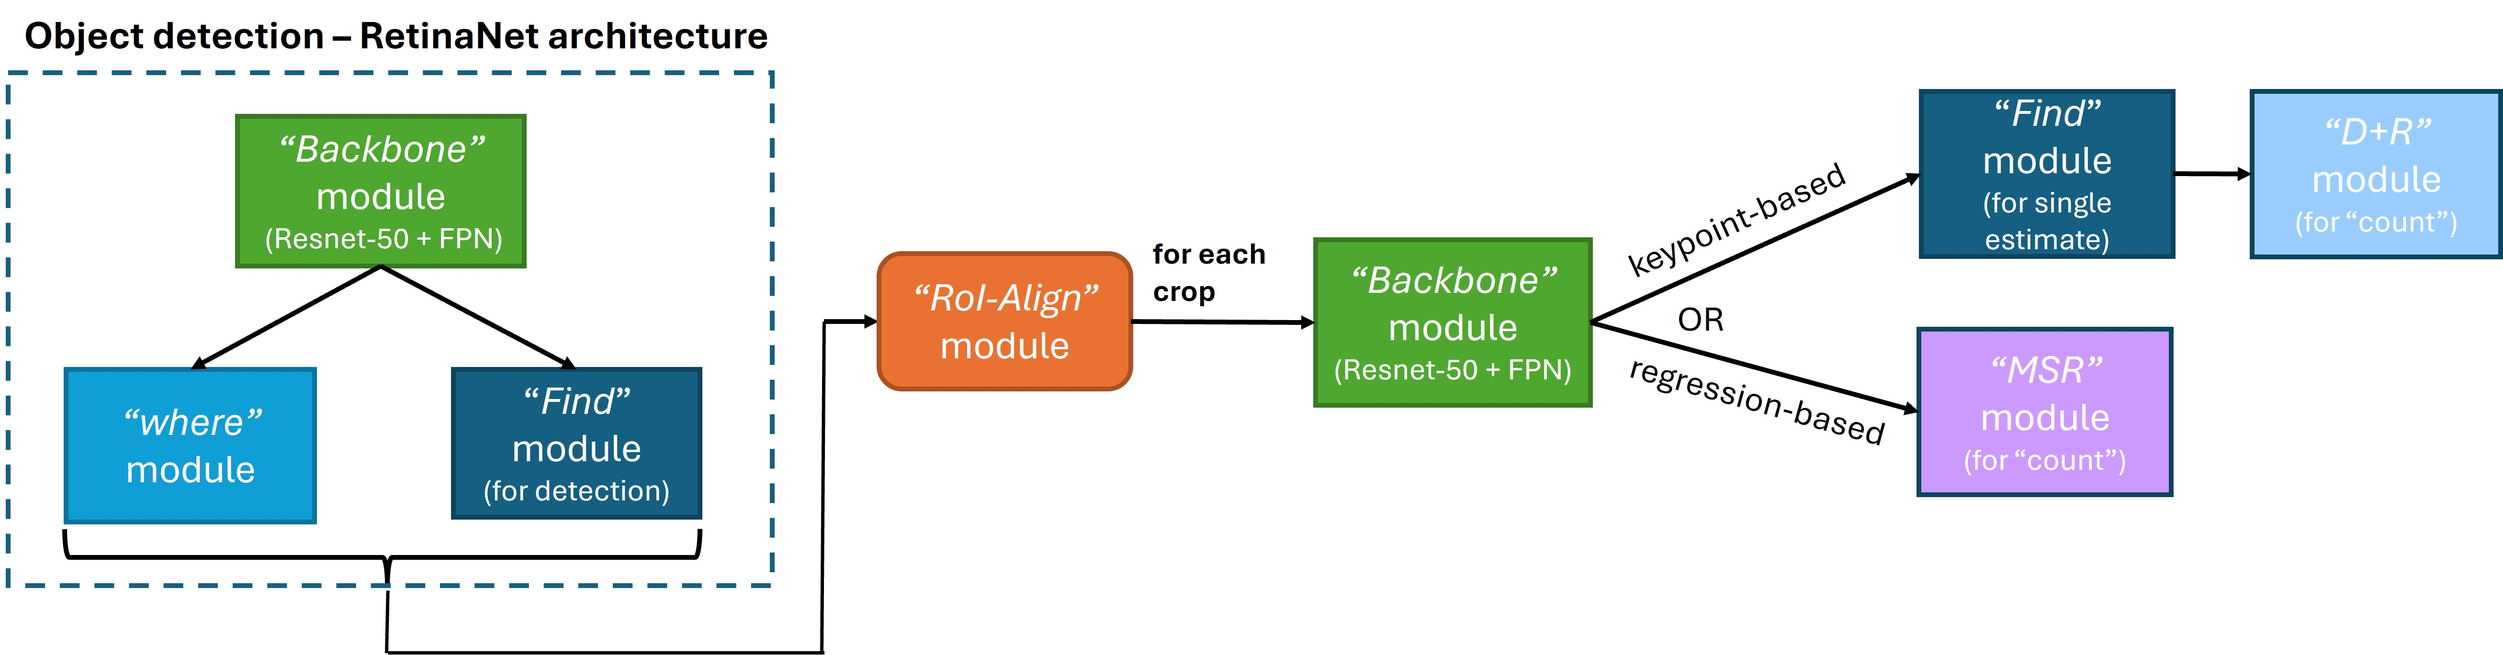
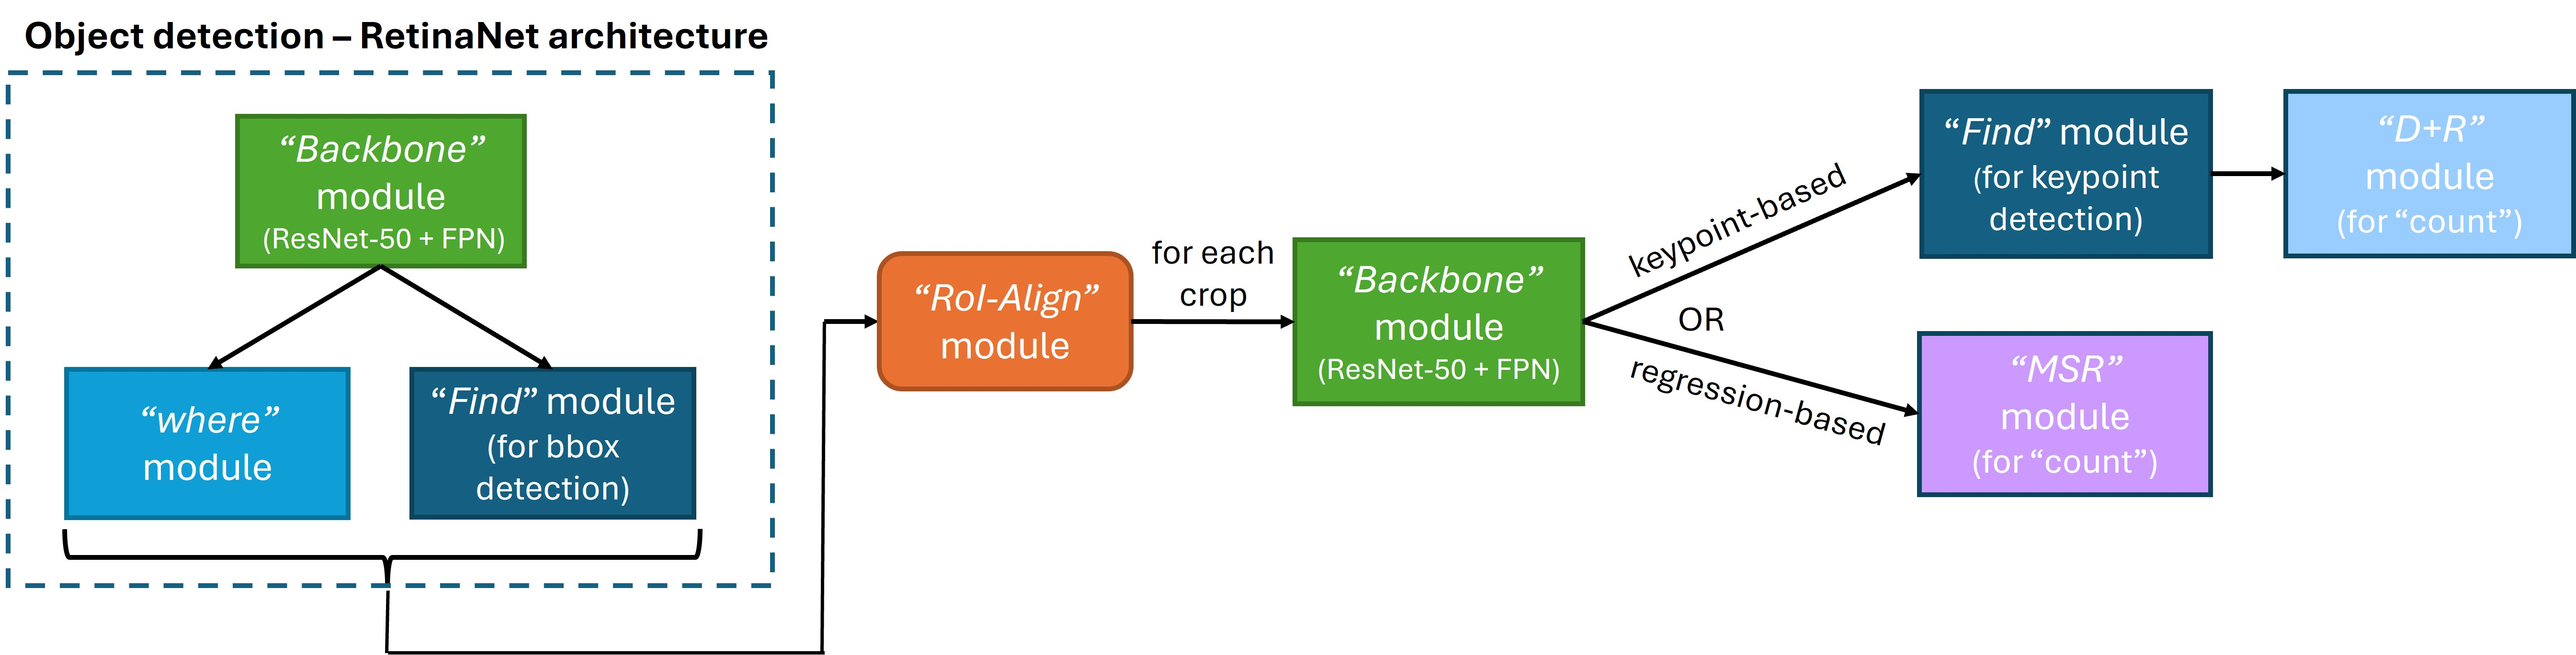
27/8 Add models figures

diff --git a/README.md b/README.md
@@ -19,15 +19,13 @@ The underlying methods have been published in
 
 ## Highlights
 
-- End-to-end training, inference, and evaluation in PyTorch.
-- Direct per-image estimation, or object detection followed by per-object
-  counting or attribute estimation.
-- Regression- and keypoint-based architectures.
-- Demonstrated on two public datasets: berry counting for countable grape
-  clusters, and multi-task estimation of root length, diameter, and color.
-- Automated, checksum-verified dataset and checkpoint downloads.
+- Modular deep-learning architecture supporting direct per-image estimation
+  and detection-based per-object counting and attribute estimation.
+- End-to-end training, inference, evaluation, and visualization in PyTorch.
+- Interchangeable keypoint- and regression-based estimation approaches.
+- Demonstrated on two public datasets for grape berry counting and multi-task
+  estimation of root length, diameter, and color.
 - Validated command-line tools and a local Streamlit interface.
-- Modular checkpoint splitting, composition, and inspection utilities.
 - CPU test coverage and continuous integration through GitHub Actions.
 
 ## Datasets
@@ -74,6 +72,38 @@ estimator selected with `--estimate-type`.*
 [grapevine-root dataset](https://doi.org/10.5281/zenodo.8084106): (a) raw input;
 (b) ground-truth keypoint heatmap (TRL: 124.09 mm); and
 (c) predicted keypoint heatmap (TRL: 110.03 mm).*
+
+#### Root model architectures
+
+##### Direct per-image TRL estimation
+
+<p align="center">
+  <img src="docs/images/per-image-TRL-models.jpg" width="75%" alt="Keypoint-based D+R and regression-based MSR architectures for direct per-image total root length estimation">
+</p>
+
+*Direct per-image TRL estimation. The complete image is processed without
+first detecting individual roots. The `keypoints` option uses the D+R
+architecture, while the `regression` option uses the MSR architecture.*
+
+##### Per-root attributes with standalone keypoint estimators
+
+![Detection, crop extraction, and standalone keypoint estimators for per-root length, diameter, and color](docs/images/per-object-keypoint-model-roots.jpg)
+
+*Standalone keypoint architecture for per-root attribute estimation. LegoNet
+detects roots, extracts each predicted crop with RoI Align, and estimates
+length, diameter, and color through separate D+R output modules.*
+
+##### Per-root attributes with the multibranch keypoint estimator
+
+![Detection, crop extraction, and multibranch keypoint architecture for per-root length, diameter, and color](docs/images/per-object-multi-branch-model-roots.jpg)
+
+*Multibranch keypoint architecture for per-root attribute estimation. Length
+uses a dedicated branch, while diameter and color share a second backbone and
+keypoint-detection branch. Per-root predictions can subsequently be aggregated
+into image-level TRL, mean diameter, and white-root fraction.*
+
+The supported configurations also include a regression-based per-root
+attribute estimator, which is not shown in these two per-root diagrams.
 
 The experiment scope, distinction between direct per-image estimation and
 per-object aggregation, and staged verification plan are documented in
